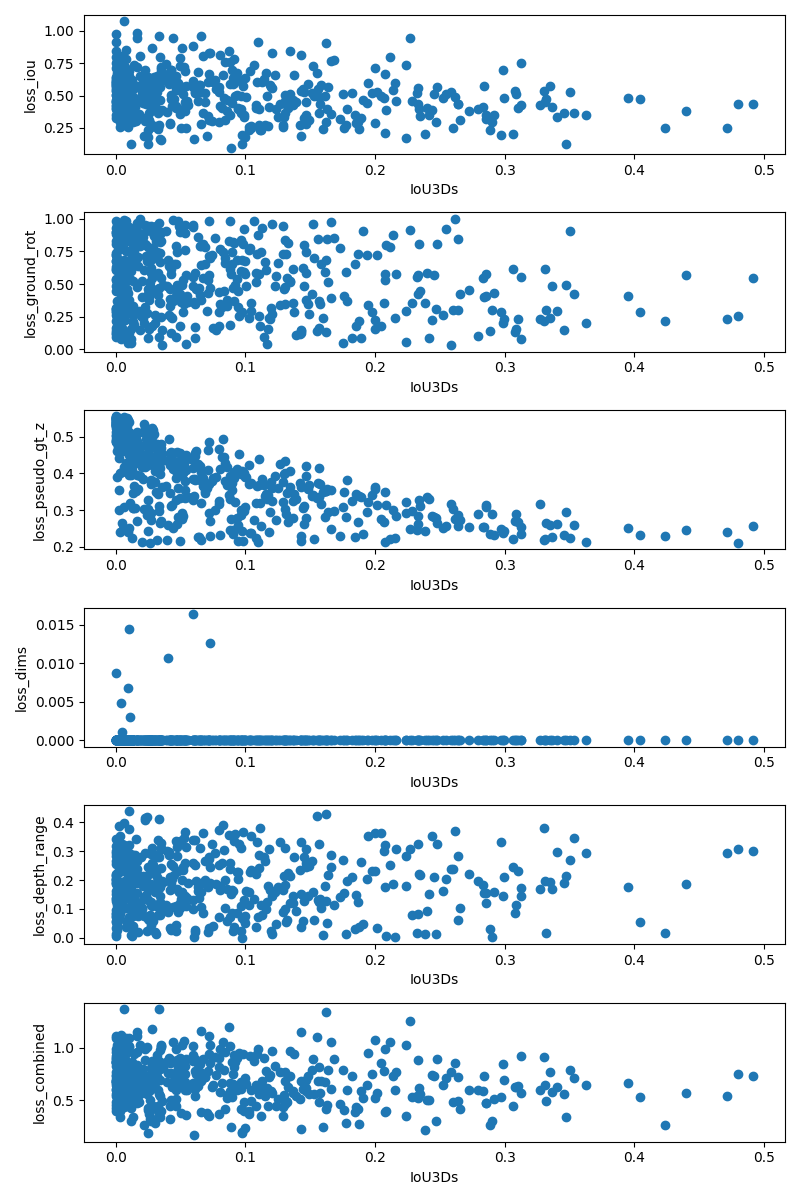
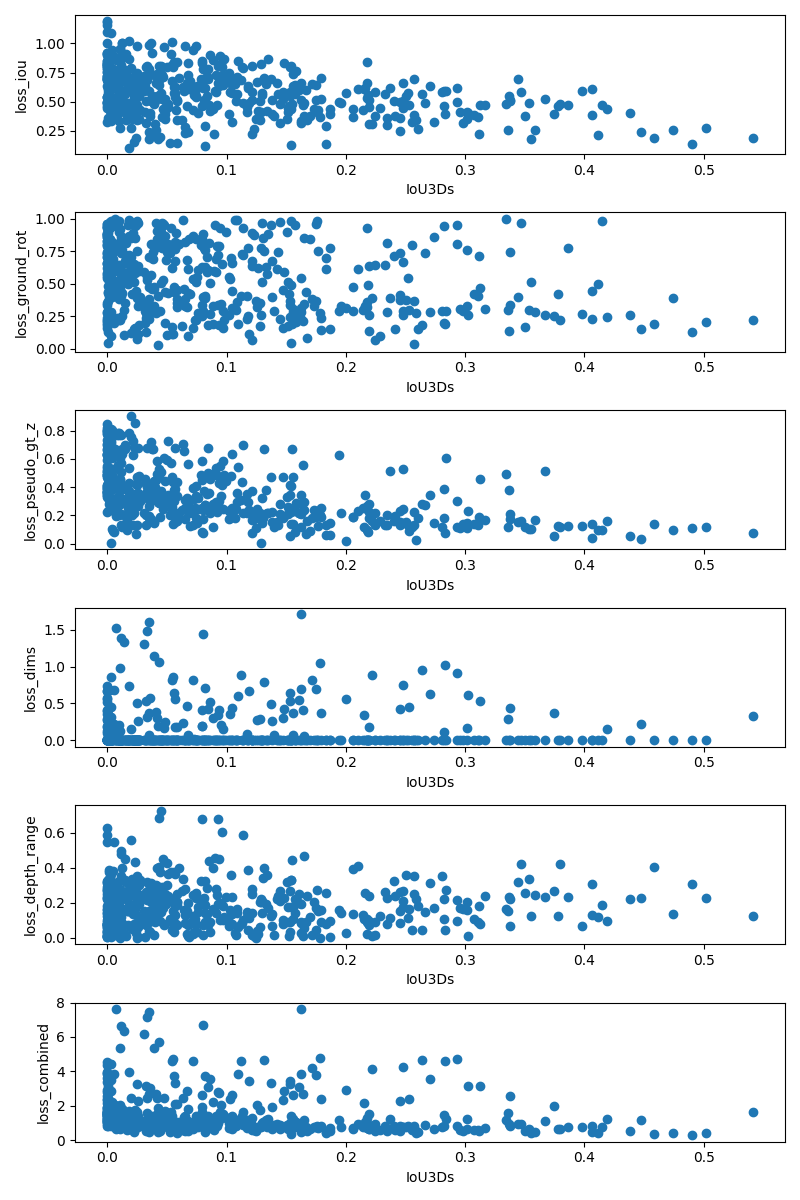
trying stuff

diff --git a/cubercnn/modeling/roi_heads/roi_heads.py b/cubercnn/modeling/roi_heads/roi_heads.py
@@ -1263,8 +1263,9 @@ class ROIHeads3DScore(StandardROIHeads):
             y = torch.clamp(y,10,h-11)
             gt_z.append(depth_map[y.long(), x.long()])
         gt_z_o = torch.cat(gt_z)
-        l1loss = 1-self.l1_loss(pred_z.squeeze(), gt_z_o)
+        l1loss = self.l1_loss(pred_z.squeeze(), gt_z_o)
         return l1loss
+        
 
     def depth_range_loss(self, gt_mask, at_which_mask_idx, depth_maps, cubes, gt_boxes, num_instances):
         """
@@ -1533,11 +1534,11 @@ class ROIHeads3DScore(StandardROIHeads):
             loss_plot = True
             if loss_plot:
                 cubes_tensor = torch.cat((cube_x3d.unsqueeze(1),cube_y3d.unsqueeze(1),cube_z.unsqueeze(1),cube_dims,cube_pose.reshape(n,9)),axis=1).unsqueeze(1)
-                
+
                 n_steps = 500
-                interpolated_tensors = torch.zeros(n_steps, 1, 15)
-                for i in range(n_steps):
-                    alpha = i / (n_steps - 1)
+                interpolated_tensors = torch.zeros(n_steps // 2, 1, 15)
+                for i in range(n_steps // 2):
+                    alpha = i / ((n_steps // 2) - 1)
                     interpolated_tensors[i] = (1 - alpha) * cubes_tensor + alpha * gt_cubes.tensor
                 
                 # shuffle
@@ -1548,7 +1549,10 @@ class ROIHeads3DScore(StandardROIHeads):
                     indices = torch.randperm(interpolated_tensors.size(0))  # Random permutation for 100 axis
                     shuffled_tensor[:, :, i] = interpolated_tensors[indices, :, i]
                 
-                interpolated_tensors = shuffled_tensor
+                noise = torch.normal(mean=0, std=0.1, size=interpolated_tensors.size())
+                interpolated_tensors = interpolated_tensors + noise
+
+                interpolated_tensors = torch.cat((shuffled_tensor,interpolated_tensors),dim=0)
 
                 cubes = Cubes(interpolated_tensors)
                 cube_pose = interpolated_tensors[:, :, 6:].reshape(n_steps,3,3)
@@ -1557,7 +1561,7 @@ class ROIHeads3DScore(StandardROIHeads):
                 Ks_scaled_per_box =  Ks_scaled_per_box.repeat(n_steps, 1, 1)
                 im_sizes *= n_steps
                 num_boxes_per_image[0] = n_steps
-                cube_xy = interpolated_tensors[:,:,:2]
+                cube_xy = Boxes.cat(cubes_to_box(cubes,Ks_scaled_per_box[0],im_sizes[0])).get_centers()
                 cube_z = interpolated_tensors[:,:,2]
                 at_which_mask_idx *= n_steps
 
@@ -1685,7 +1689,7 @@ class ROIHeads3DScore(StandardROIHeads):
                 ax5.set_ylabel('loss_depth_range')
 
                 # Plot combine over IoU3Ds
-                ax6.scatter(IoU3Ds.detach().numpy(), (loss_iou+loss_depth).detach().numpy())
+                ax6.scatter(IoU3Ds.detach().numpy(), (loss_iou+1/5*loss_ground_rot+loss_pseudo_gt_z+4*(loss_dims_w+loss_dims_h+loss_dims_l)).detach().numpy())
                 ax6.set_xlabel('IoU3Ds')
                 ax6.set_ylabel('loss_combined')
 

diff --git a/cubercnn/config/config.py b/cubercnn/config/config.py
@@ -183,5 +183,5 @@ def get_cfg_defaults(cfg):
     # these are meant to be overwritten as an argument
     cfg.log = True
     # (these 2 are mutually exclusive) z_pseudo_gt_patch or z_pseudo_gt_center 
-    cfg.loss_functions = ['dims', 'pose_alignment', 'pose_ground', 'iou', 'z', 'z_pseudo_gt_patch', 'depth']
+    cfg.loss_functions = ['dims', 'pose_alignment', 'pose_ground', 'iou', 'z_pseudo_gt_center']
     cfg.MODEL.DEPTH_ON = False #whether to use the depth anything concated features
